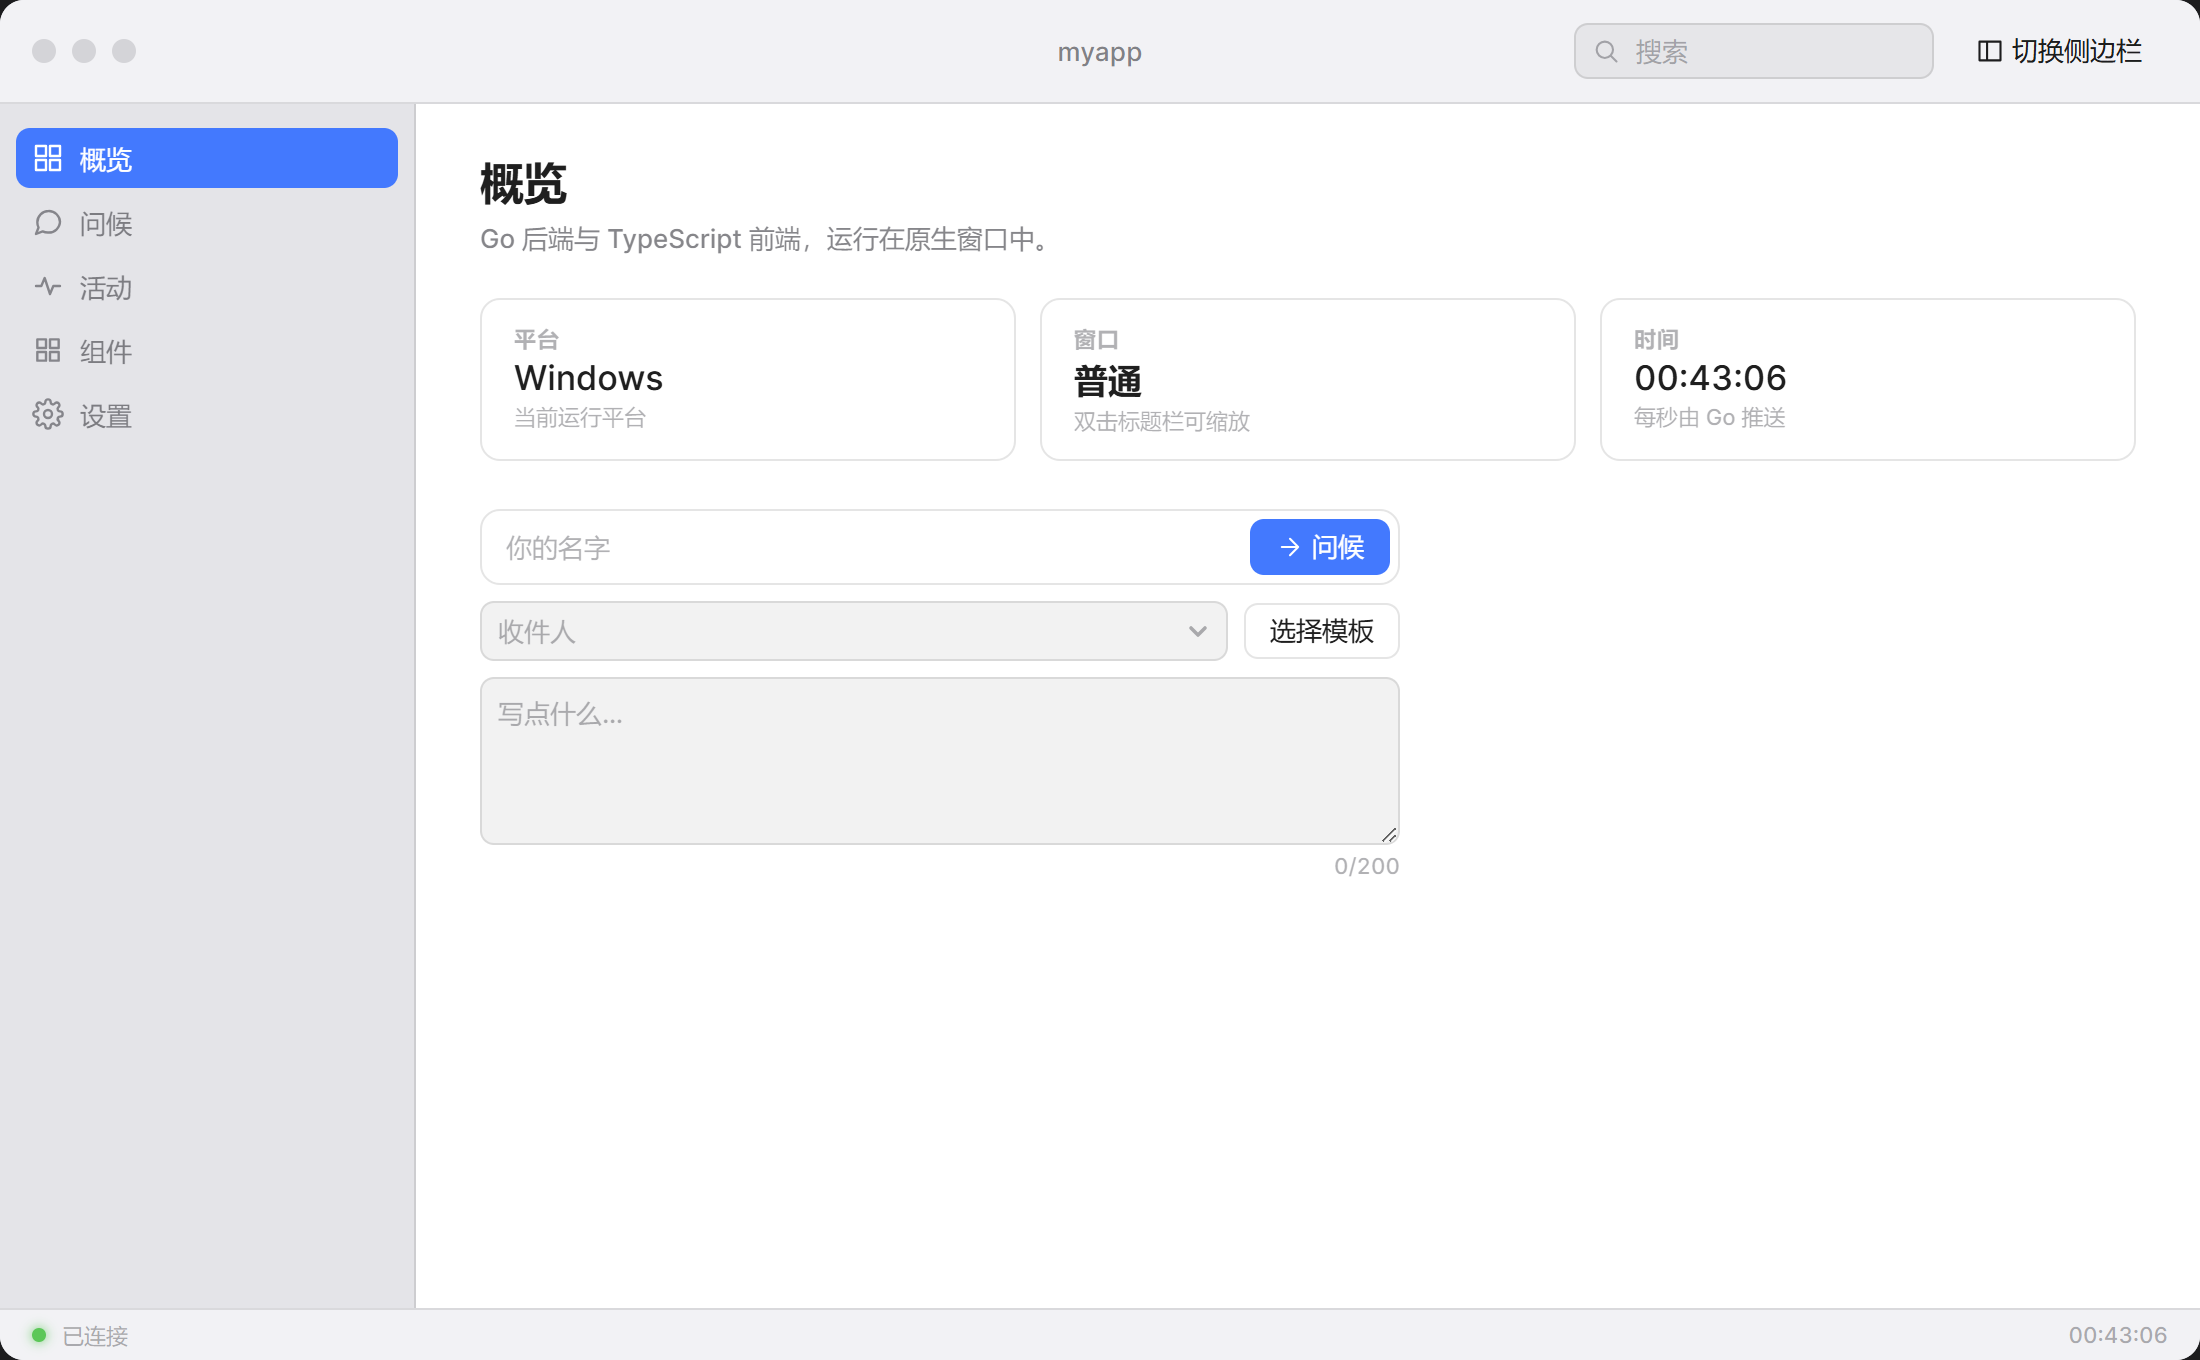
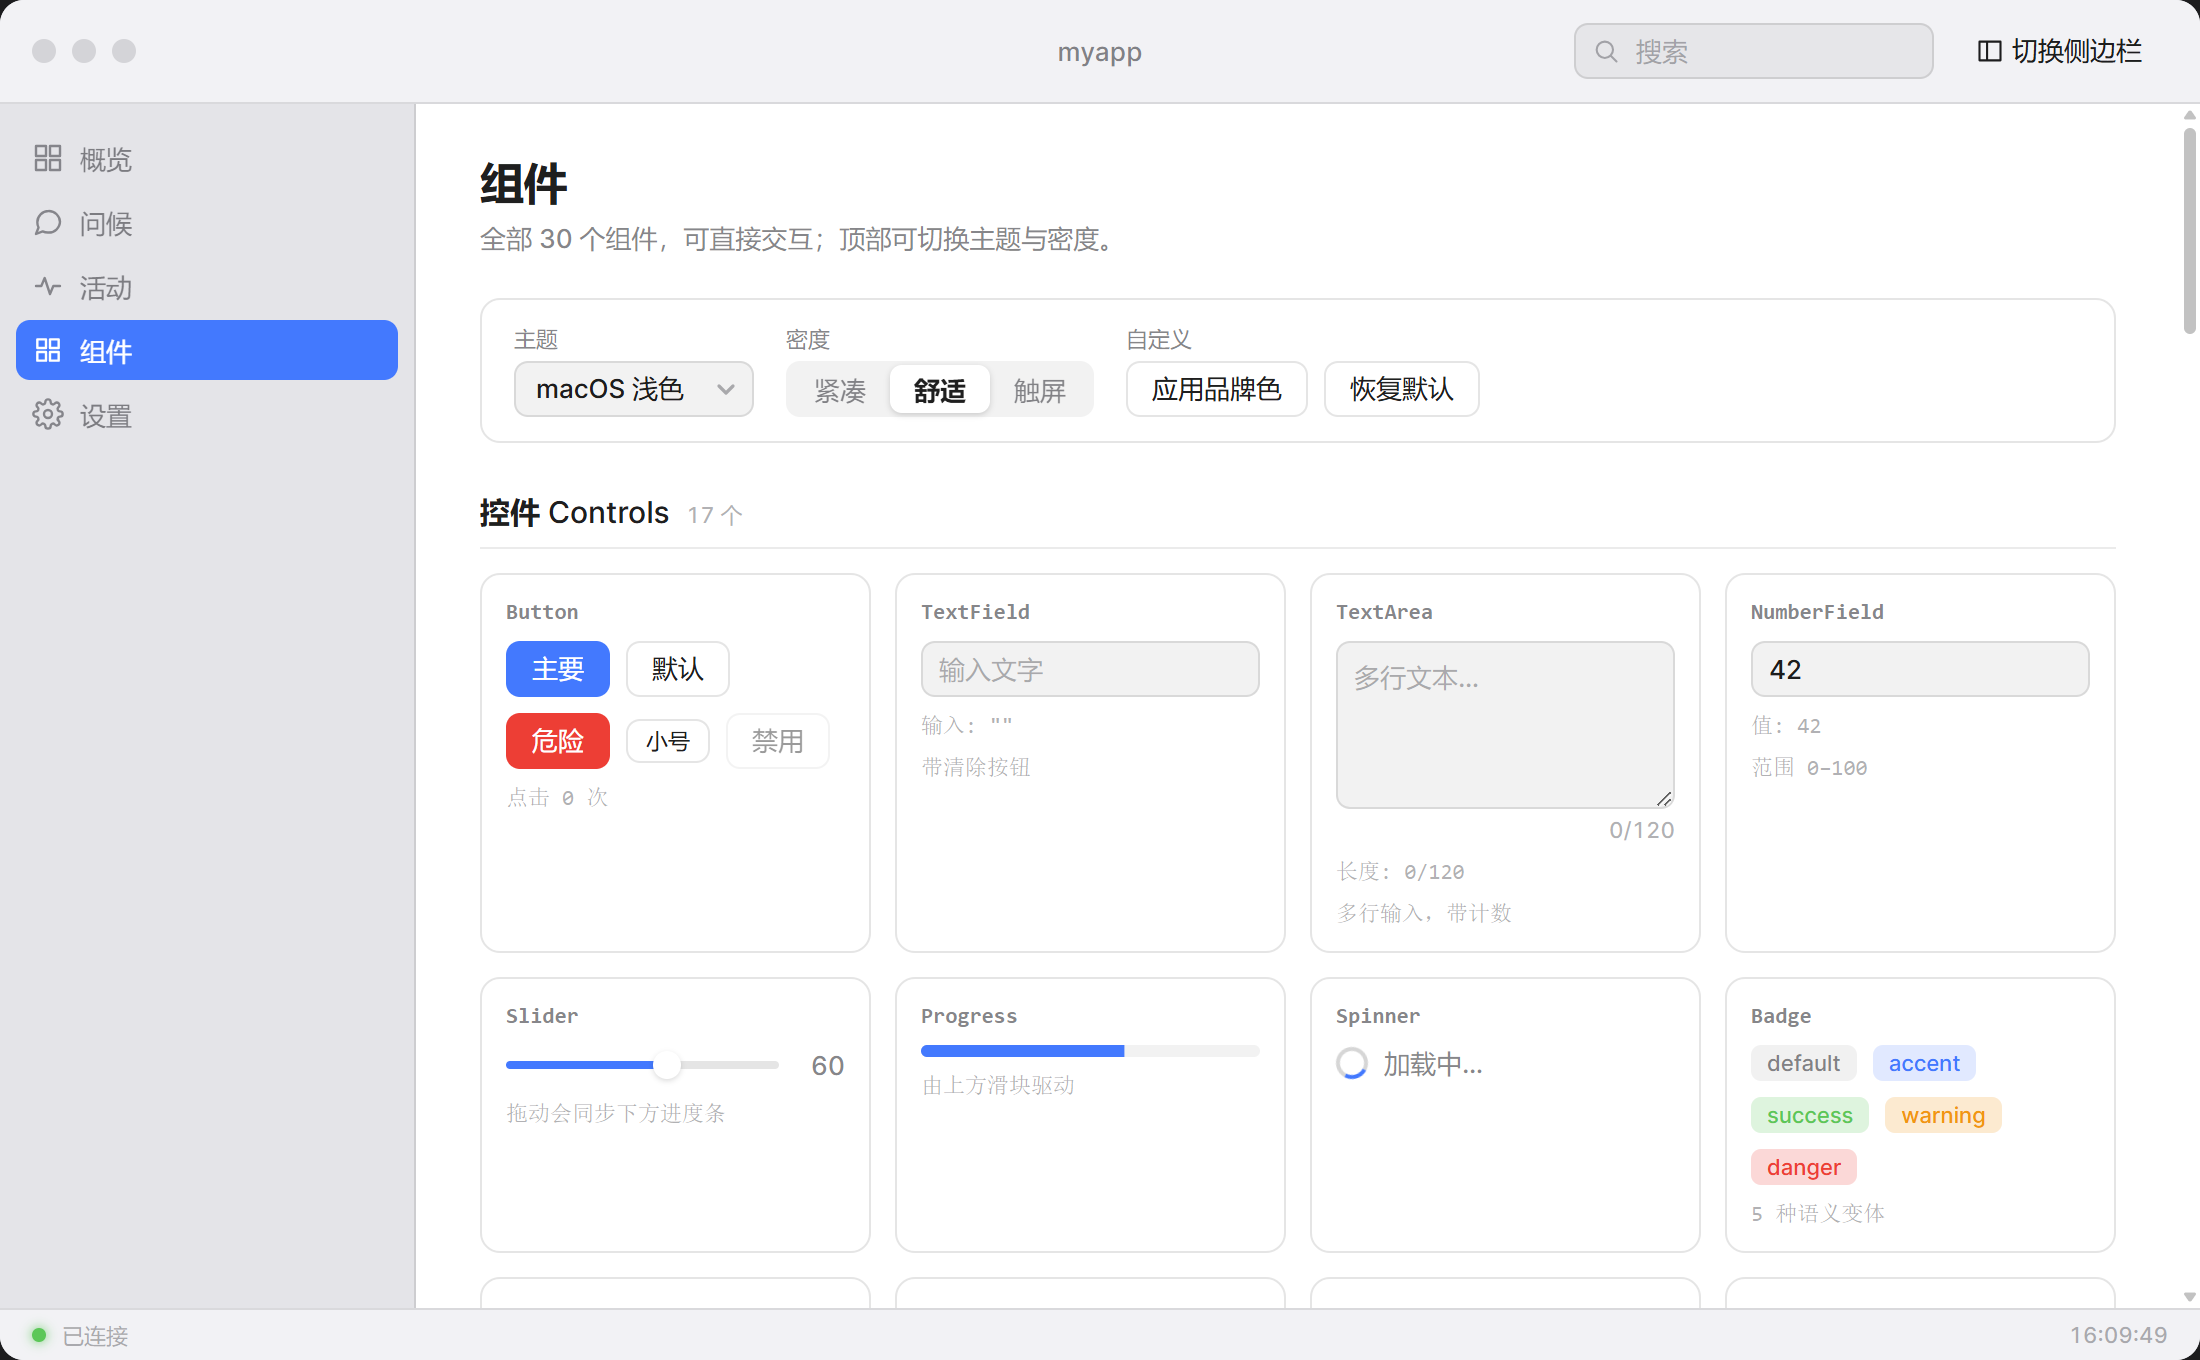
Release 0.1.2 with a Wails screenshot and updated version references
Two changes the release needed:

- docs/app.png was the Overview pane, which says little about a component kit.
  Recaptured it on the Components pane: the same showcase, inside a real
  frameless WebView2 window with the rendered title bar, traffic lights, sidebar
  and status bar. Both READMEs now show it in the Scope section, right after the
  claim that Wails is optional — the point being that this is the same component
  code, with nothing changed to make it work in a window. The duplicate image in
  the demo-app section is gone; that section links back to it instead.

- Version references moved from 0.1.1 to 0.1.2: the install URLs in all four
  READMEs and the version badge the preview renders.

Published to all three channels: npm (latest -> 0.1.2), GitHub Packages
(0.1.2), and a GitHub release with the tarball.

Note on timing: npm accepted 0.1.2 immediately but the read endpoint served
0.1.1 for about two minutes, the same propagation lag seen on 0.1.1. Verified
before calling it done.

diff --git a/frontend/src/preview.ts b/frontend/src/preview.ts
@@ -31,7 +31,7 @@ function masthead(): HTMLElement {
     install.className = "preview__install";
     install.textContent = "npm install @leef-l/macos-ui-kit";
 
-    const version = new Badge({text: "v0.1.1", variant: "accent"});
+    const version = new Badge({text: "v0.1.2", variant: "accent"});
     const plain = new Badge({text: "无框架", variant: "default"});
     const zero = new Badge({text: "0 依赖", variant: "success"});
 

diff --git a/README.md b/README.md
@@ -65,7 +65,7 @@ HTML, and use the global `MacUI`:
 | Channel | Command | Notes |
 |---|---|---|
 | **npm** | `npm install @leef-l/macos-ui-kit` | Recommended. No config, no token. |
-| **Release tarball** | `npm install https://github.com/leef-l/macos-ui-kit/releases/download/v0.1.1/leef-l-macos-ui-kit-0.1.1.tgz` | Pins an exact build; no registry involved. |
+| **Release tarball** | `npm install https://github.com/leef-l/macos-ui-kit/releases/download/v0.1.2/leef-l-macos-ui-kit-0.1.2.tgz` | Pins an exact build; no registry involved. |
 | **GitHub Packages** | `npm install @leef-l/macos-ui-kit` with `@leef-l:registry=https://npm.pkg.github.com` | Requires a token **even though the package is public**. |
 
 See [`packages/macos-ui-kit/README.md`](packages/macos-ui-kit/README.md) for the
@@ -101,6 +101,15 @@ The Go code in this repository is a **demo host**, not part of the package.
 |---|---|---|---|
 | `packages/macos-ui-kit` | yes | no | no |
 | The demo app | no | yes | yes |
+
+### The same components in a real desktop window
+
+Opting into Wails costs you nothing beyond the host: the window below is the same
+component code, running in a frameless WebView2 window with a rendered title bar,
+traffic lights, sidebar and status bar. Nothing in the library changed to make
+this work.
+
+![The same components inside a Wails v3 window](./docs/app.png)
 
 ---
 
@@ -281,11 +290,9 @@ wails3 dev      # development, with hot reload
 wails3 build    # production binary into bin/
 ```
 
-![The demo window](./docs/app.png)
-
 The window is frameless (`Frameless: true`) with the native title bar hidden. The
 app draws the entire frame, which is what makes the interface identical across
-platforms.
+platforms. See [the screenshot above](#the-same-components-in-a-real-desktop-window).
 
 | macOS element | Where it lives |
 | --- | --- |

diff --git a/packages/macos-ui-kit/README.zh-CN.md b/packages/macos-ui-kit/README.zh-CN.md
@@ -55,7 +55,7 @@ npm install @leef-l/macos-ui-kit
 ### 直接从 GitHub Release（不经过任何 registry）
 
 ```sh
-npm install https://github.com/leef-l/macos-ui-kit/releases/download/v0.1.1/leef-l-macos-ui-kit-0.1.1.tgz
+npm install https://github.com/leef-l/macos-ui-kit/releases/download/v0.1.2/leef-l-macos-ui-kit-0.1.2.tgz
 ```
 
 同样的文件、同样的类型、同样的导出。适合锁定精确构建，或者无法访问 registry 时。

diff --git a/packages/macos-ui-kit/README.md b/packages/macos-ui-kit/README.md
@@ -60,7 +60,7 @@ No configuration, no token. This is the channel to use.
 ### Straight from a GitHub release — no registry at all
 
 ```sh
-npm install https://github.com/leef-l/macos-ui-kit/releases/download/v0.1.1/leef-l-macos-ui-kit-0.1.1.tgz
+npm install https://github.com/leef-l/macos-ui-kit/releases/download/v0.1.2/leef-l-macos-ui-kit-0.1.2.tgz
 ```
 
 Same files, same types, same exports. Use it to pin an exact build, or when no
